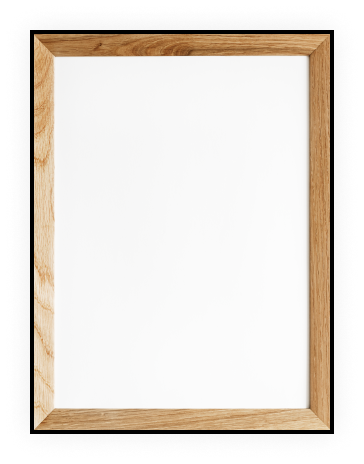
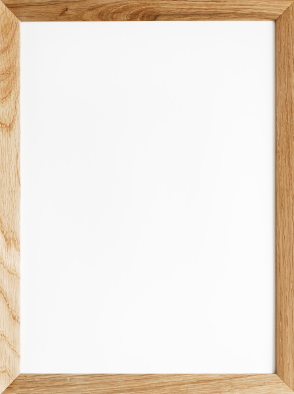
start creating choose image size completed hamid

diff --git a/src/components/pages/StartCreating/ChooseImageSize/ChooseImageSize.module.css b/src/components/pages/StartCreating/ChooseImageSize/ChooseImageSize.module.css
@@ -10,10 +10,9 @@
     font-size: 0.94rem;
     color: #000;
     font-family: 'Poppins';
+  overflow: hidden;
 }
-.chooseimagesizeContainer div{
-    /* border: 2px solid black; */
-}
+
 .startText{
     font-size: 3.75rem;
     
@@ -42,17 +41,18 @@
     display: flex;
     justify-content: center;
     align-items: center;
-    background-color: #F1F0EE;
-    background-image: url('../../../../assets/images/image-1@2x.png');
+    /* background-color: #F1F0EE; */
+    background-image: url('../../../../assets/images/startcreating-bg.png');
     background-repeat: no-repeat;
     background-position: center bottom;
     object-fit: cover;
-    background-size: contain;
+    background-size: cover;
     padding-top: 3rem;
     padding-bottom: 8rem;
 }
+
 .imagesizeRightbox{
-    width: 90%;
+    width: 70%;
     border-radius: 17px;
     background-color: #fff;
     display: flex;
@@ -65,14 +65,18 @@
     background: #FFFFFF;
     border: 1px solid #D9D9D9;
     border-radius: 18px;
-    font-size: 1.88rem;
+    font-size: 1.3rem;
     color: #707070;
-    padding: 0.5rem 18.5rem 0.5rem 2rem;
+    padding: 0.5rem 10.5rem 0.5rem 2rem;
     text-align: left;
-    margin: 2rem 0rem;
+    margin-top: 2rem;
+    margin-bottom: 1rem;
+}
+.imagesizeRightbox input:focus{
+    outline-color: #eecea5;
 }
 .choseImageSizeText{
-    font-size: 1.88rem;
+    font-size: 1.3rem;
     margin-bottom: 1rem;
 }
 .image1IconImg{
@@ -81,10 +85,11 @@
     overflow: hidden;
     max-height: 100%;
     object-fit: cover;
+    margin-bottom: 0.5rem;
 }
 .image2IconImg{
   max-width: 100%;
-  width: 17rem;
+  width: 14.8rem;
   overflow: hidden;
   max-height: 100%;
   object-fit: cover;
@@ -96,6 +101,14 @@
   justify-content: center;
   flex-direction: column;
 }
+
+  .image {
+    /* border: 1px solid black; */
+  }
+  
+  .selected {
+    border: 3px solid #000000;
+  }
 .size1{
     font-weight: 500;
 }
@@ -113,8 +126,9 @@
      z-index: 9;
      border-radius: 4px;
      margin: 0 auto;
-     margin-top: 2rem;
+     margin-top: 1rem;
  }
+
  @media (max-width: 860px) {
     html{
         font-size: 50%;

diff --git a/src/components/pages/StartCreating/ChooseImageSize/ChooseImageSize.jsx b/src/components/pages/StartCreating/ChooseImageSize/ChooseImageSize.jsx
@@ -1,11 +1,16 @@
-import React from "react";
+import React,{useState} from "react";
 import styles from "./ChooseImageSize.module.css";
 import icon1 from "../../../../assets/images/image-2@2x.png";
 import icon2 from "../../../../assets/images/image-3@2x.png";
 import { Container, Row, Col } from "react-bootstrap";
 
 const ChooseImageSize = () => {
-  return (
+  const [selectedImage, setSelectedImage] = useState(null);
+  const handleImageClick = (image) => {
+    setSelectedImage(image);
+    
+  };
+  return ( 
     <>
       <Container fluid>
         <Row className={styles.chooseimagesizeContainer}>
@@ -28,7 +33,7 @@ const ChooseImageSize = () => {
               2023 @ Ai. All rights reserved.
             </p>
           </Col>
-          <Col xs={12} md={8} className={styles.imagesizeRightCol}>
+          <Col xs={12} md={8} className={`${styles.imagesizeRightCol}`}>
             <div className={styles.imagesizeRightbox}>
               <input type="text" placeholder="Give us a design!" />
               <div
@@ -36,11 +41,11 @@ const ChooseImageSize = () => {
               >{`Choose image size `}</div>
               <Row>
                 <Col xs={6} className={styles.image2Icon2Col}>
-                  <img className={styles.image1IconImg} alt="" src={icon1} />
+                  <img  alt="" src={icon1} className={`${styles.image1IconImg} ${selectedImage === icon1 && styles.selected}`} onClick={() => handleImageClick(icon1)} />
                   <p className={styles.size1}>2*1</p>
                 </Col>
                 <Col xs={6} className={styles.image2Icon2Col}>
-                  <img className={styles.image2IconImg} alt="" src={icon2} />
+                  <img alt="" src={icon2} className={`${styles.image2IconImg} ${selectedImage === icon2 && styles.selected}`} onClick={() => handleImageClick(icon2)} />
                   <p className={styles.size2}> 1*1</p>
                 </Col>
                 <button className={styles.startNowbtn}>{`Generate `}</button>

diff --git a/src/components/pages/Home/heroSection/HeroSection.module.css b/src/components/pages/Home/heroSection/HeroSection.module.css
@@ -37,7 +37,8 @@
 }
 .k {
   color: #eccb9c;
-}
+} 
+
 .artwork,
 .mAKContainer {
   position: absolute;
@@ -119,6 +120,9 @@
     text-decoration: none;
     text-align: center;
     padding: 0.4rem 0rem;
+}
+.startNowbtn:hover{
+  color: #eecea5;
 }
 /* responsive  */
 @media screen and (max-width: 1600px) {

diff --git a/src/components/Header/Header.module.css b/src/components/Header/Header.module.css
@@ -33,6 +33,7 @@
     display: flex;
     position: relative;
     gap: 0.7rem;
+    align-items: center;
   }
   .groupChild{
     height: 2rem;

diff --git a/src/App.css b/src/App.css
@@ -30,4 +30,7 @@
   .navbar-toggler:focus {
     box-shadow: none;
   }
+  .a:hover{
+    color: #eecea5 !important;
+  }
   
